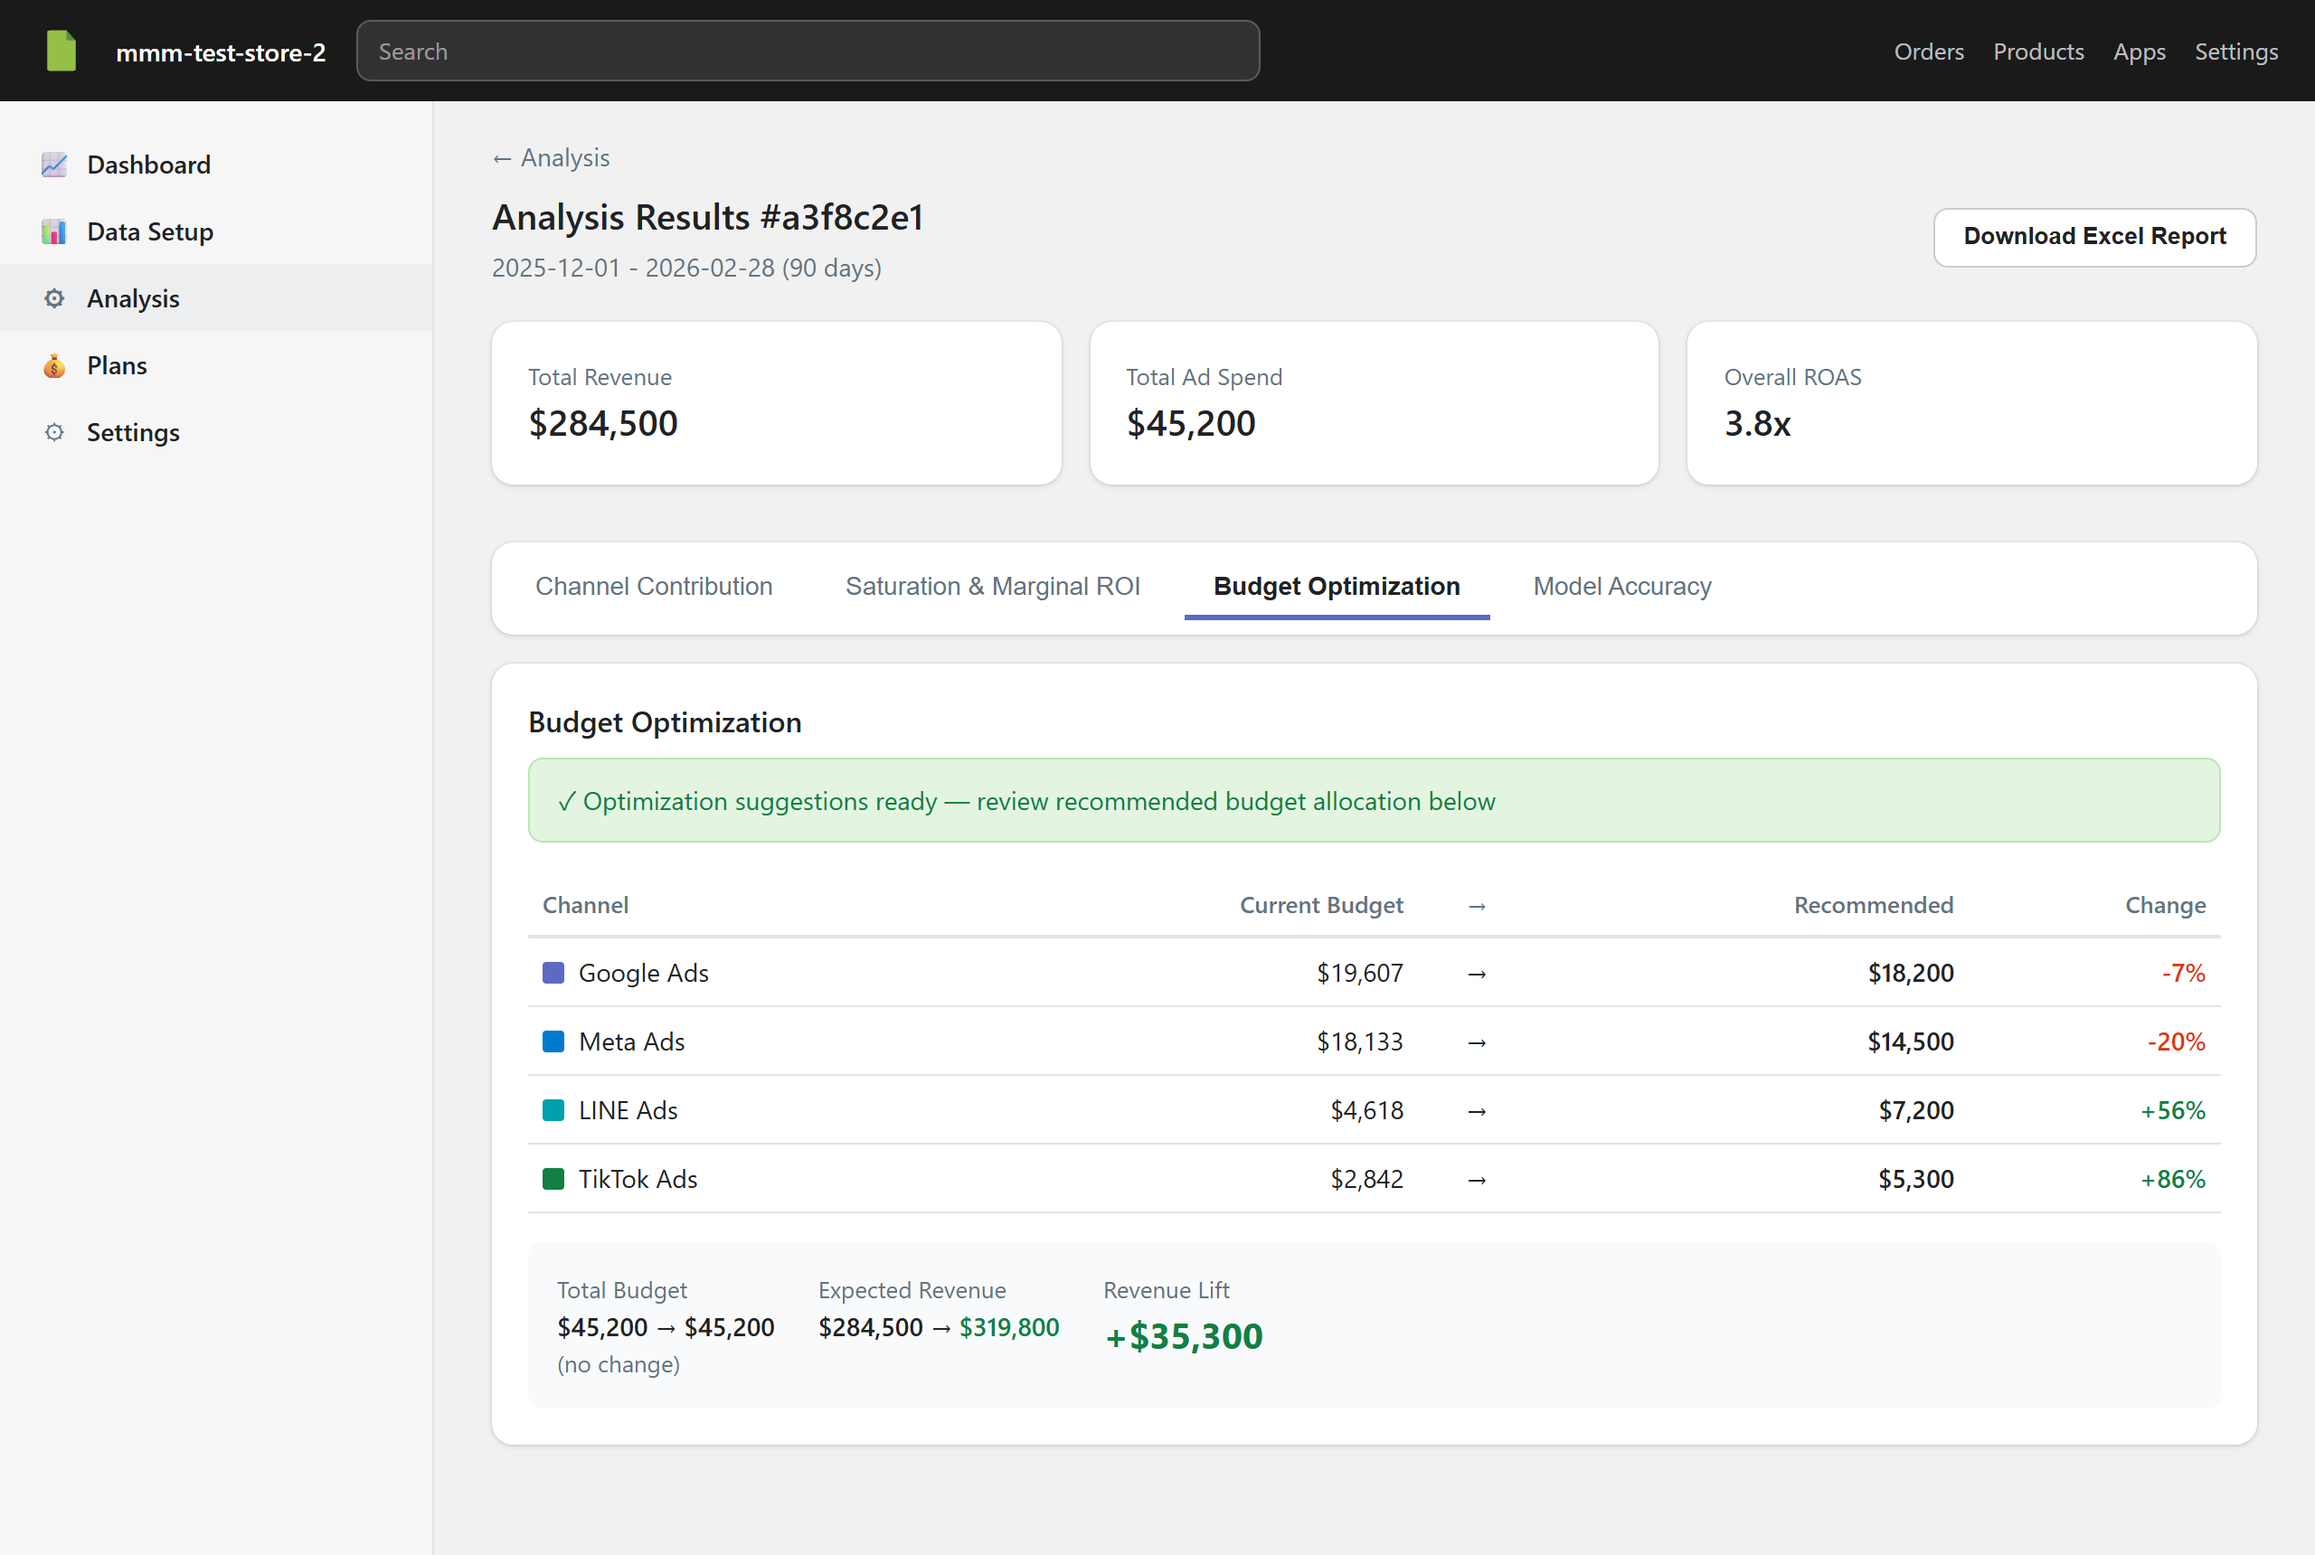
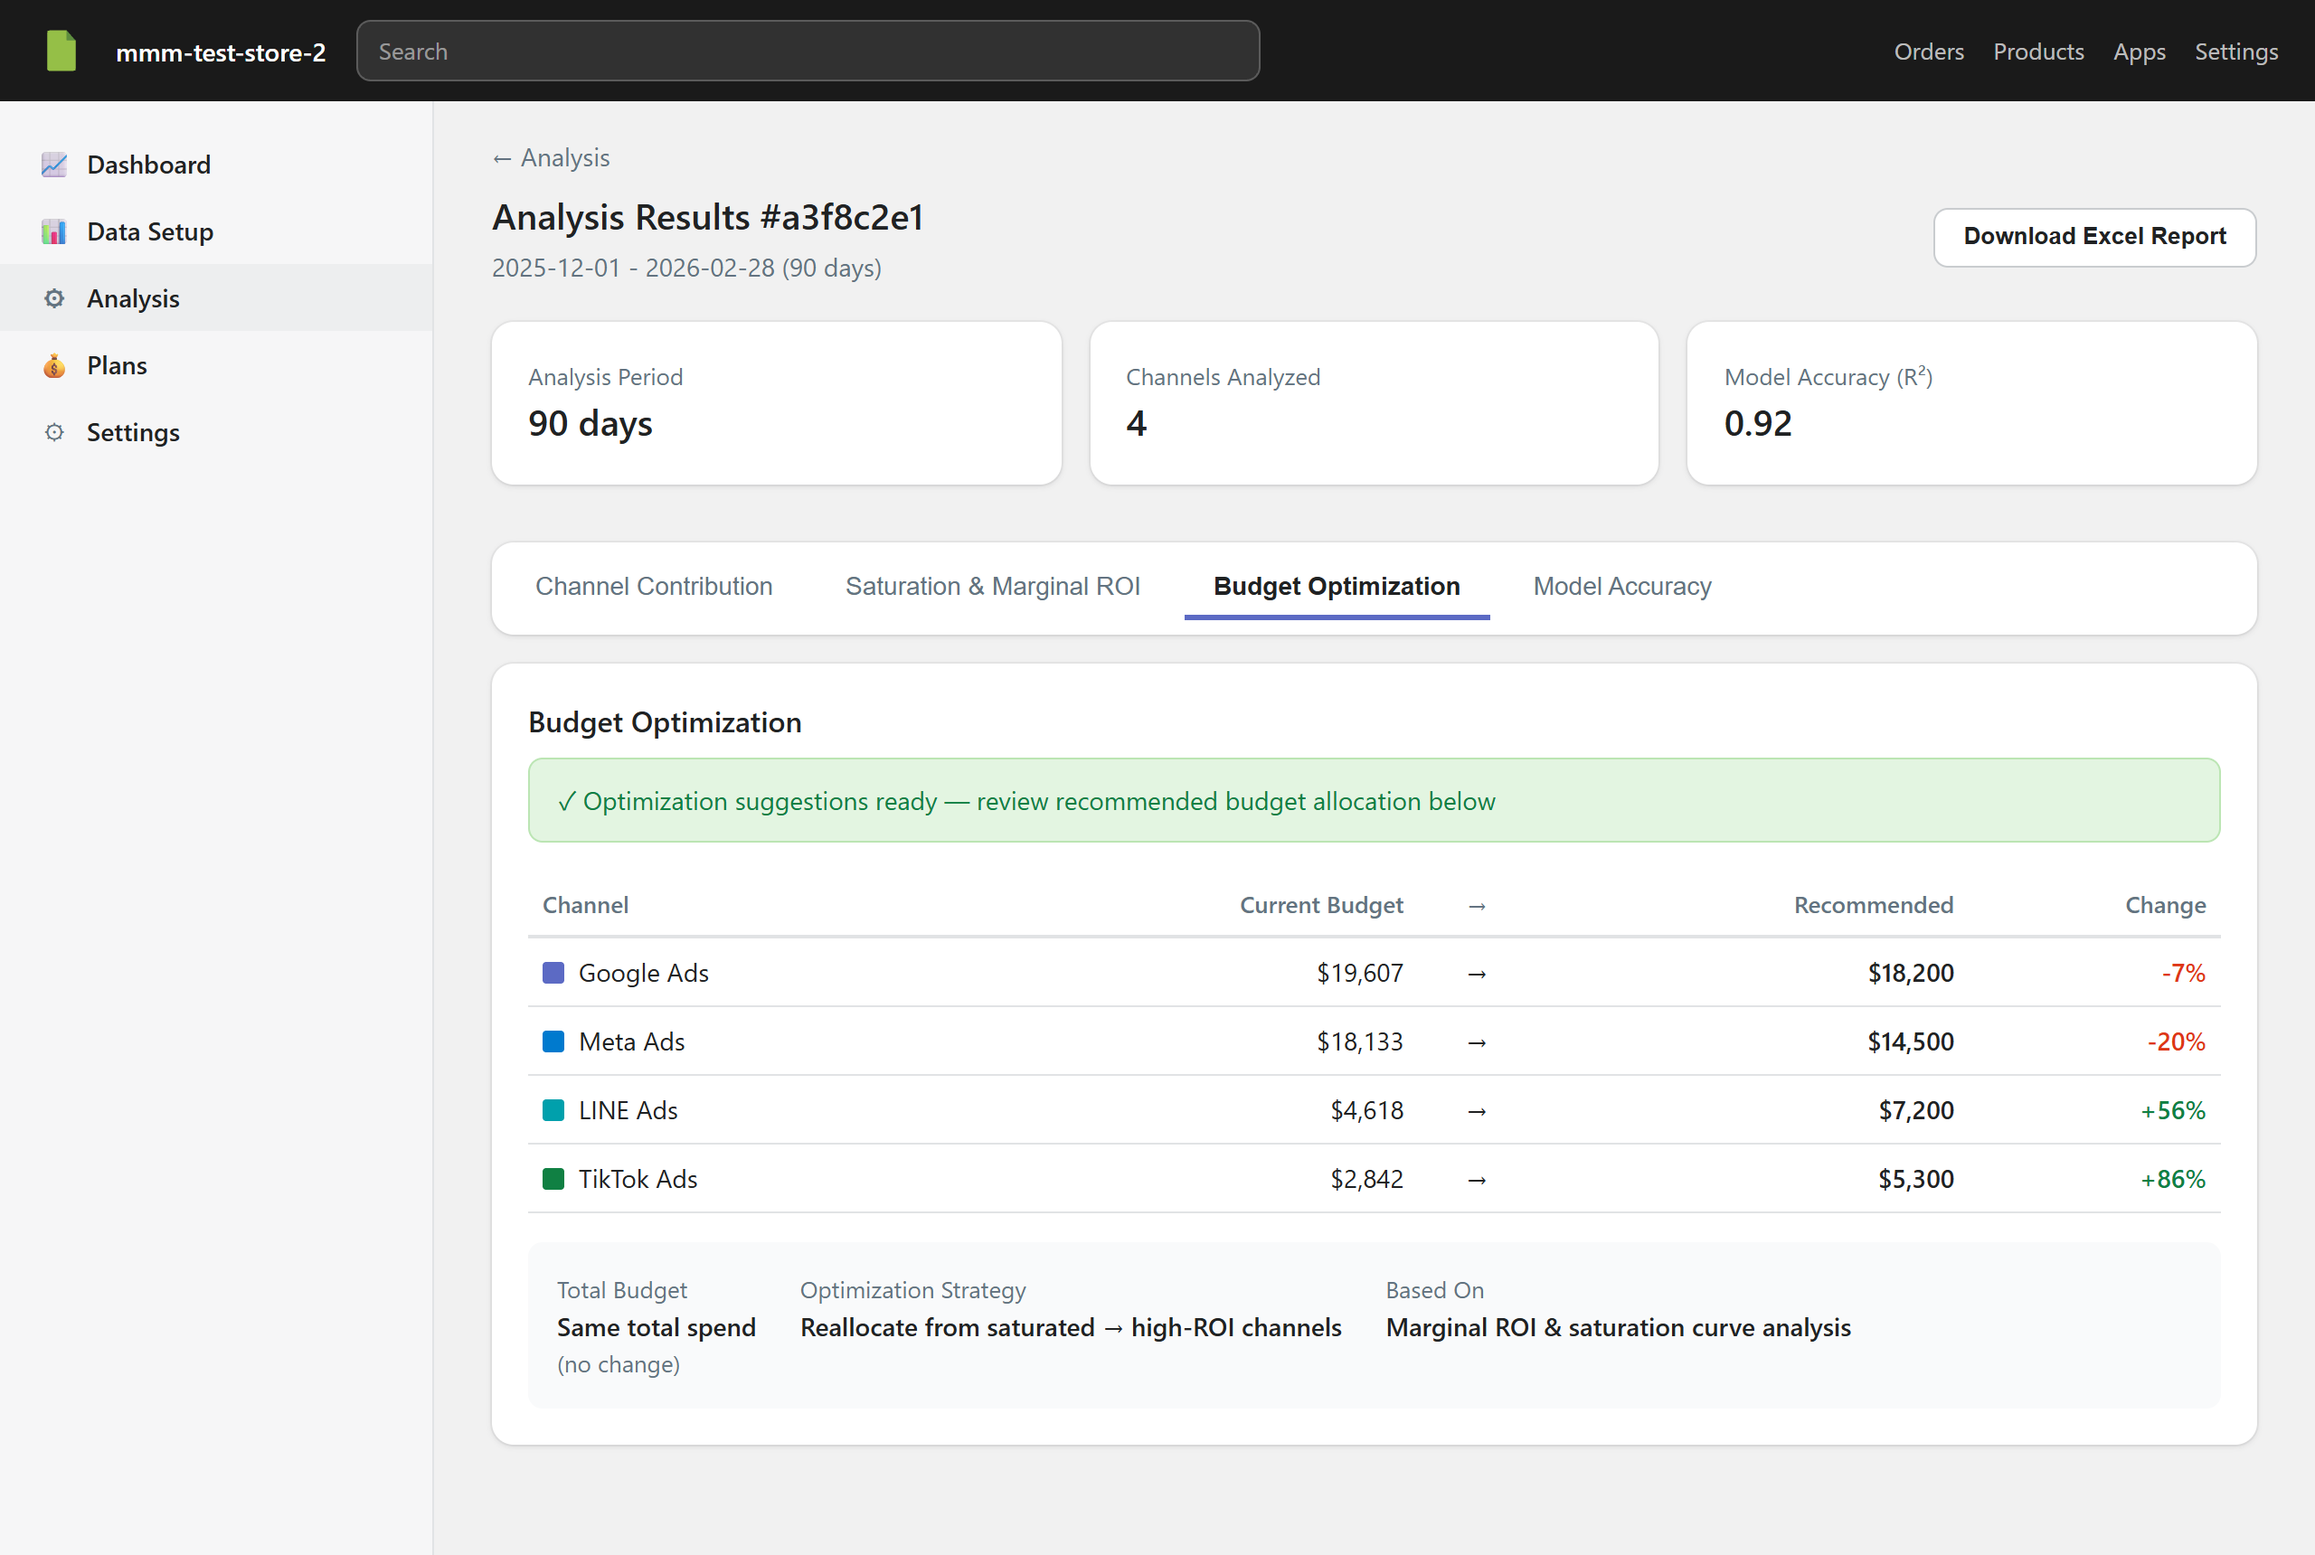
fix: Remove unsubstantiated revenue claims from screenshot 5
Replace specific dollar amounts (Expected Revenue, Revenue Lift)
with descriptive labels to comply with Shopify App Store listing
guidelines.

diff --git a/scripts/screenshot-pages/results-budget.html b/scripts/screenshot-pages/results-budget.html
@@ -34,16 +34,16 @@
       <!-- Summary Cards -->
       <div class="layout-row">
         <div class="col"><div class="card"><div class="card-body">
-          <div class="text-body-sm text-subdued">Total Revenue</div>
-          <div class="text-heading-lg">$284,500</div>
+          <div class="text-body-sm text-subdued">Analysis Period</div>
+          <div class="text-heading-lg">90 days</div>
         </div></div></div>
         <div class="col"><div class="card"><div class="card-body">
-          <div class="text-body-sm text-subdued">Total Ad Spend</div>
-          <div class="text-heading-lg">$45,200</div>
+          <div class="text-body-sm text-subdued">Channels Analyzed</div>
+          <div class="text-heading-lg">4</div>
         </div></div></div>
         <div class="col"><div class="card"><div class="card-body">
-          <div class="text-body-sm text-subdued">Overall ROAS</div>
-          <div class="text-heading-lg">3.8x</div>
+          <div class="text-body-sm text-subdued">Model Accuracy (R²)</div>
+          <div class="text-heading-lg">0.92</div>
         </div></div></div>
       </div>
 
@@ -113,16 +113,16 @@
             <div class="flex gap-24" style="flex-wrap:wrap;">
               <div>
                 <div class="text-body-sm text-subdued">Total Budget</div>
-                <div class="fw-600">$45,200 → $45,200</div>
+                <div class="fw-600">Same total spend</div>
                 <div class="text-body-sm text-subdued">(no change)</div>
               </div>
               <div>
-                <div class="text-body-sm text-subdued">Expected Revenue</div>
-                <div class="fw-600">$284,500 → <span class="color-green">$319,800</span></div>
+                <div class="text-body-sm text-subdued">Optimization Strategy</div>
+                <div class="fw-600">Reallocate from saturated → high-ROI channels</div>
               </div>
               <div>
-                <div class="text-body-sm text-subdued">Revenue Lift</div>
-                <div class="fw-700 color-green" style="font-size:20px;">+$35,300</div>
+                <div class="text-body-sm text-subdued">Based On</div>
+                <div class="fw-600">Marginal ROI & saturation curve analysis</div>
               </div>
             </div>
           </div>
